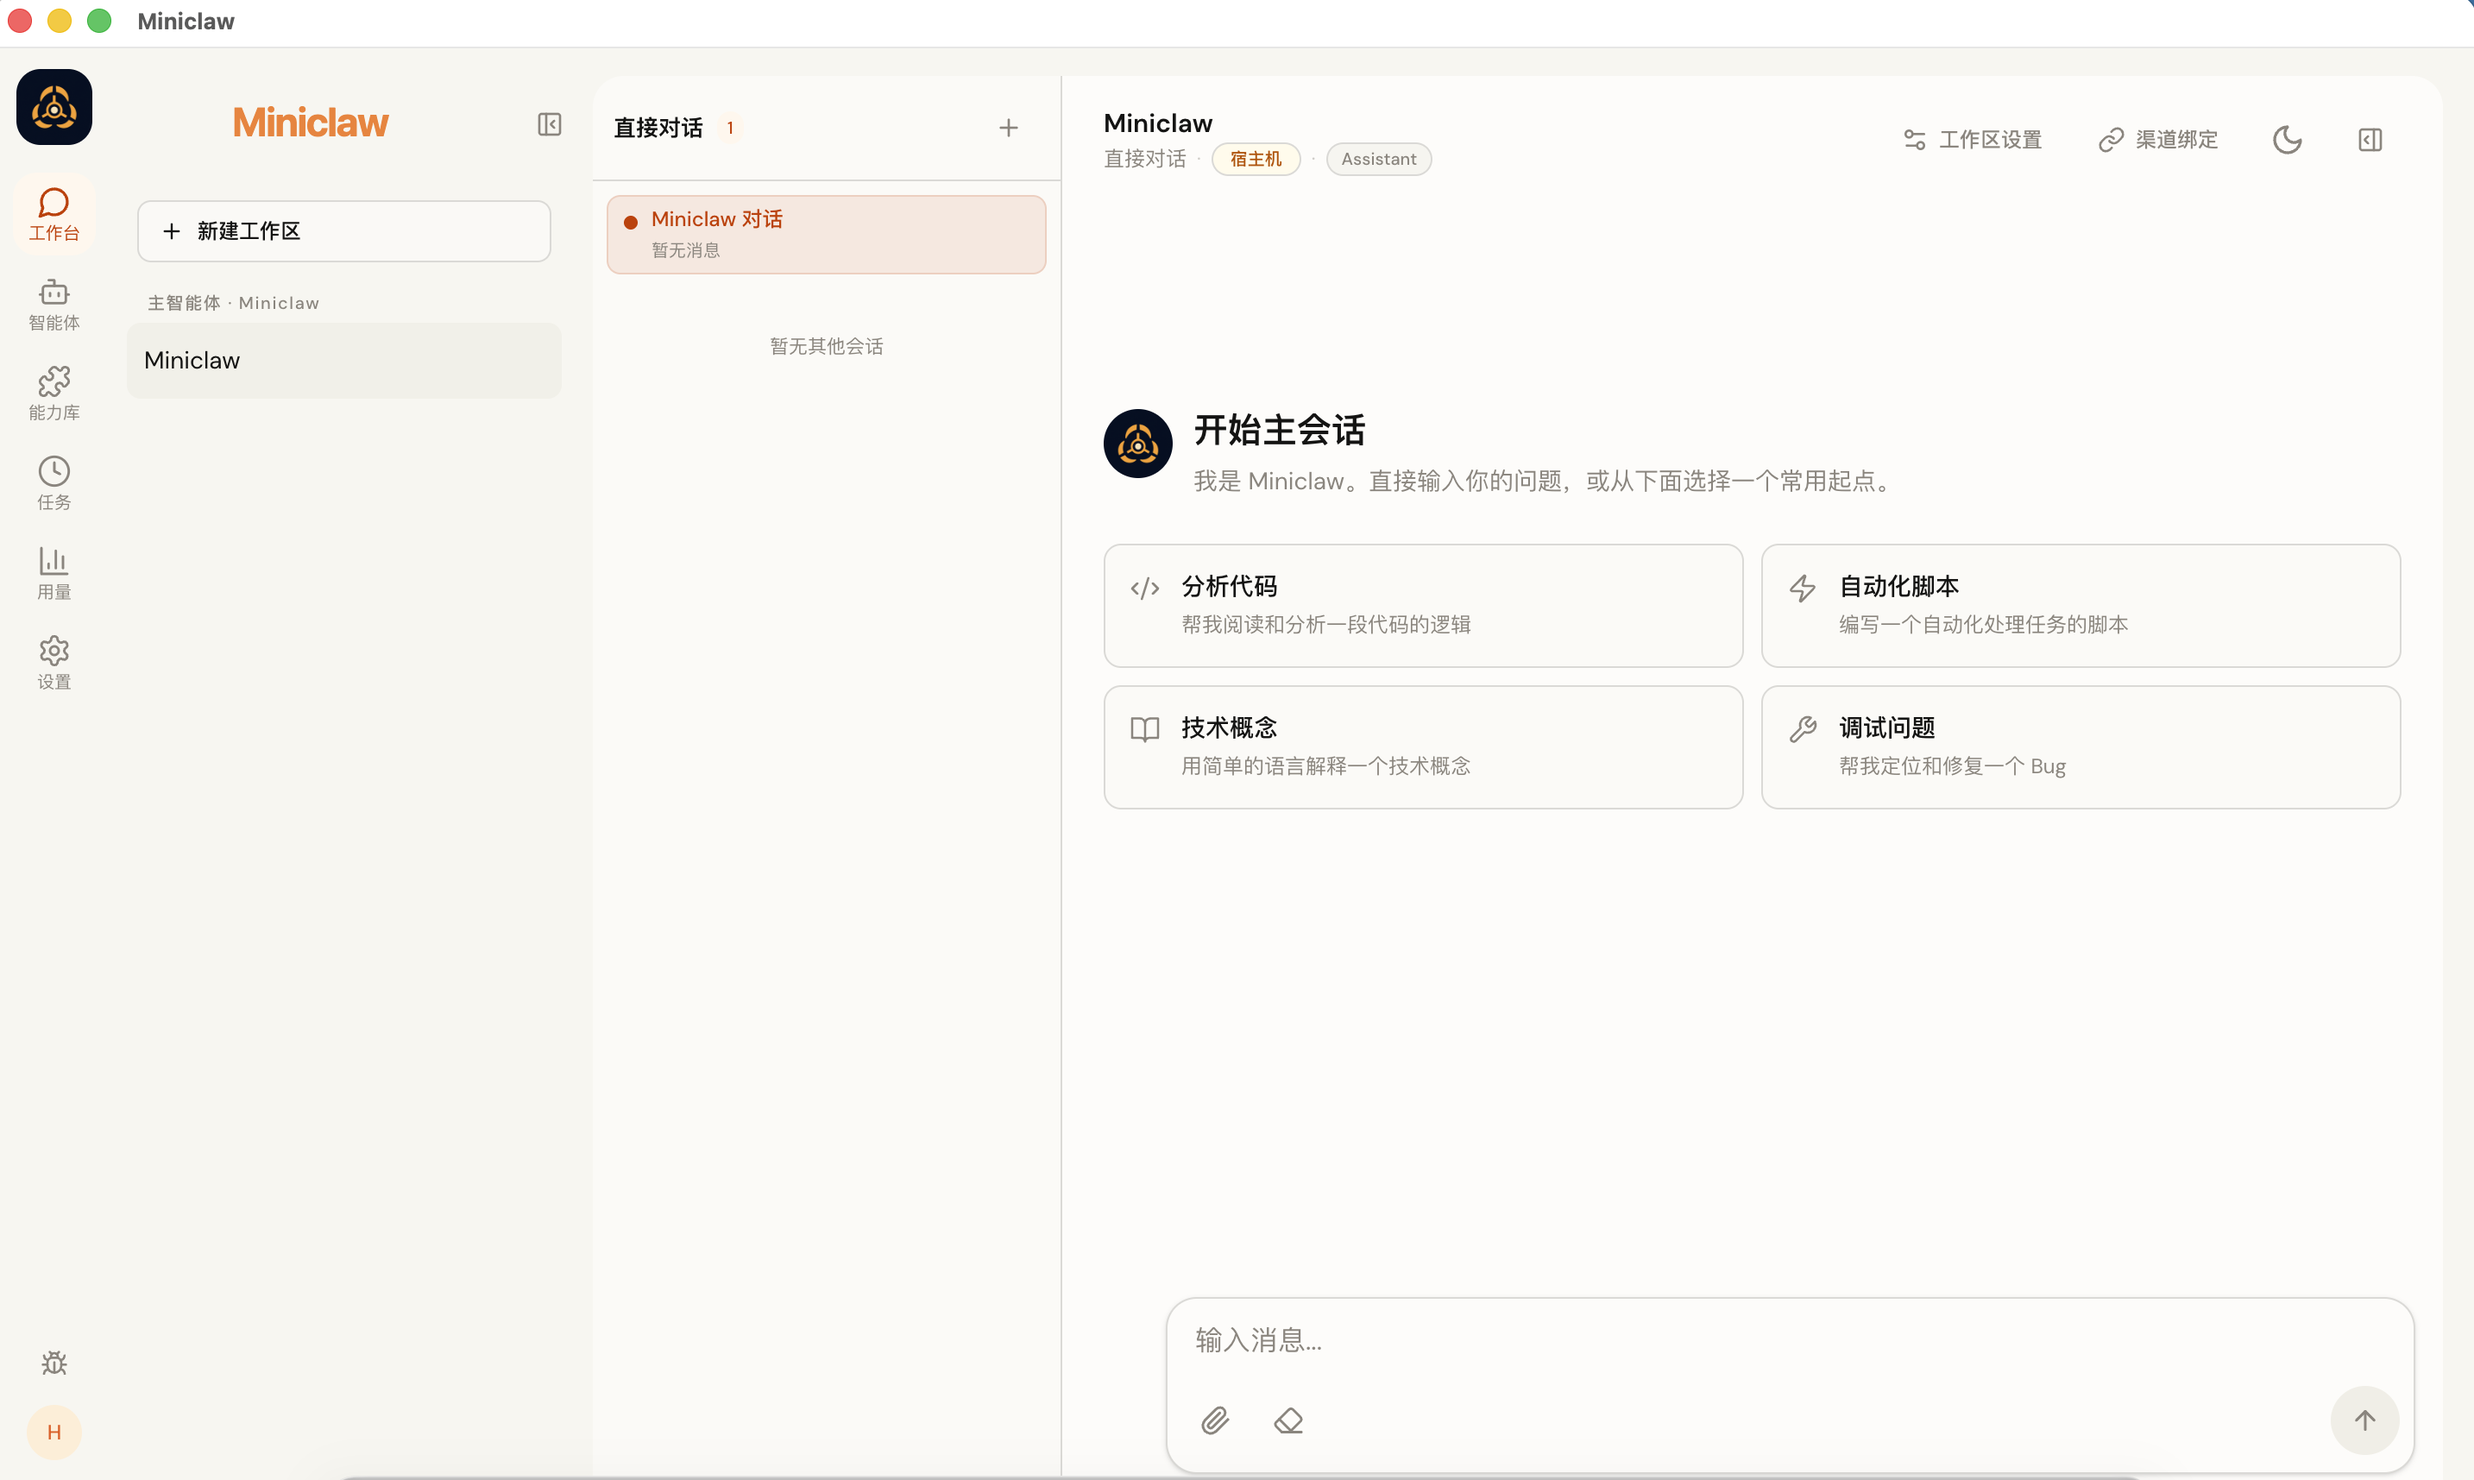
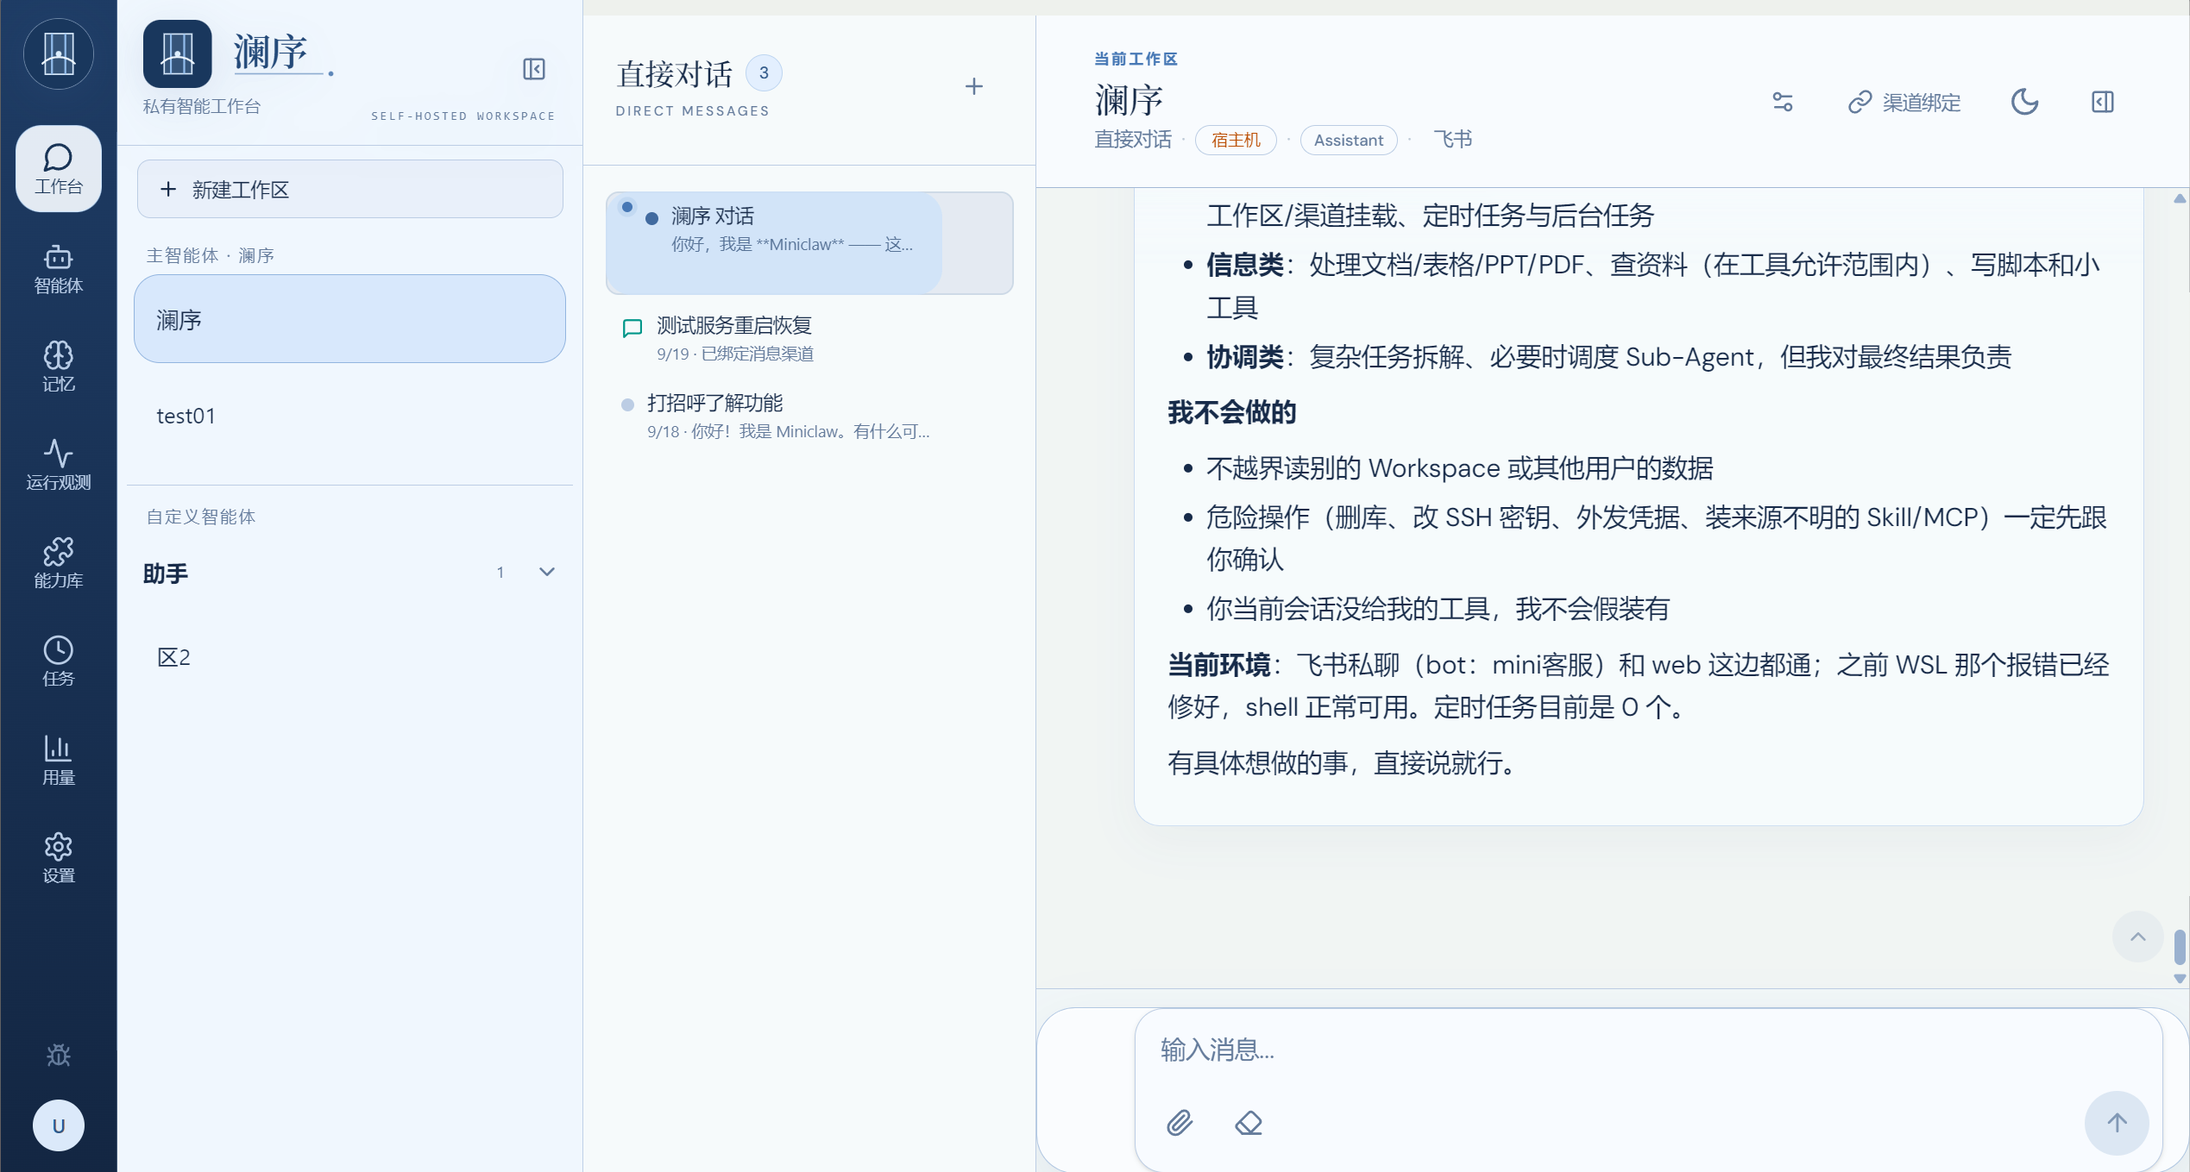
docs: refresh README product screenshots

diff --git a/README.md b/README.md
@@ -39,23 +39,23 @@
 
 工作台围绕 `Agent → Workspace → Runtime Session` 组织信息。左侧导航提供工作台、智能体、能力库、任务、用量、账单和设置入口；进入工作台后，可以在同一个界面中切换 Agent、Workspace 和对话上下文。
 
-下面是当前桌面端工作台的实际界面：
+下面是当前版本工作台的实际界面：
 
 <p align="center">
   <img src="docs/screenshots/workbench.png" alt="澜序智能体工作台" width="900" />
 </p>
 
 <p align="center">
-  <em>工作台：在同一个窗口中管理 Agent、Workspace、Session 与对话。</em>
+  <em>工作台：在同一个窗口中管理 Agent、Workspace、Session 与多渠道对话。</em>
 </p>
 
 <p align="center">
-  <img src="docs/screenshots/capabilities.png" alt="澜序能力库" width="49%" />
-  <img src="docs/screenshots/settings-models.png" alt="澜序模型配置" width="49%" />
+  <img src="docs/screenshots/workspace-memory.png" alt="澜序工作区记忆" width="49%" />
+  <img src="docs/screenshots/operations.png" alt="澜序 Agent 运行观测" width="49%" />
 </p>
 
 <p align="center">
-  <em>能力库与模型配置：把 Skills、MCP、Plugins 和 Provider 配置放在清晰的管理边界内。</em>
+  <em>工作区记忆与运行观测：沉淀可复用知识，并把 Agent Turn 从 Workspace 到消息投递串成可检查的证据链。</em>
 </p>
 
 澜序图标同时用于 Web/PWA、Electron 窗口和安装包资源：
